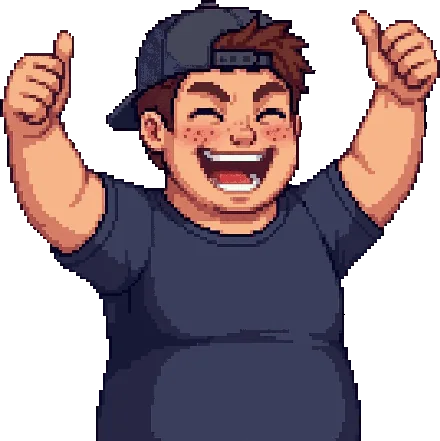
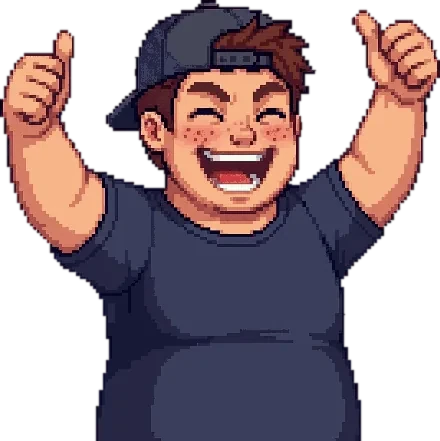
Terminale: le righe aggiunte non stanno piu' fuori dallo schermo del Mac
Regressione mia del commit precedente: aggiungendo store, reparto, iPhone e
ruolo, il terminale e' passato da 4 a 8 righe e le ultime finivano sotto
overflow:hidden. A schermo si vedeva "ANNI:" tagliato a meta' e nient'altro.

Tre cause, tutte misurate invece che indovinate:

  * padding in percentuale — le percentuali si calcolano sulla LARGHEZZA del
    contenitore (il prop intero, ~250px), non su questo schermetto alto 74px:
    erano 15px di margine verticale, un quinto dello spazio utile. Ora in em.
  * interlinea 1.75 + mezzo em di margine per riga = 2.25em a riga: con otto
    righe non c'era speranza. Ora 1.25 + 0.18em.
  * nessun adattamento: aggiungere una riga allo script faceva sparire le
    altre in silenzio, senza nessun errore da nessuna parte.

adattaTerminale() rimpicciolisce il testo finche' ci sta, come rete di
sicurezza per il futuro. Al primo tentativo scendeva sempre al minimo (3.2px,
illeggibile) e la causa non era il ciclo: misurava lo schermo PRIMA che
l'immagine del Mac fosse caricata, quando il riquadro e' alto quanto il suo
solo padding. Ora un ResizeObserver rimisura quando il riquadro diventa quello
vero — e la stessa cosa copre rotazione e ridimensionamento. Con i valori
sistemati il testo resta alla misura piena del CSS (5.86px) e tutte e otto le
righe entrano.

Contorno degli sprite: il Mac aveva l'alpha binaria, 0% di pixel
semitrasparenti. Ogni bordo diagonale (i fianchi della tastiera) diventava una
[…]

diff --git a/game/engine.js b/game/engine.js
@@ -772,6 +772,45 @@
     var c = global.document.createElement('span');
     c.className = 'cur'; c.id = 'tcur'; c.textContent = ' ';
     el.screen.appendChild(c);
+    osservaTerminale();
+    adattaTerminale();
+  }
+
+  // Lo schermo del Mac e' un ritaglio a misura fissa dentro l'immagine del prop:
+  // non puo' crescere. Aggiungendo campi al terminale il testo sfora e sparisce
+  // sotto overflow:hidden, in silenzio. Qui la scritta viene rimpicciolita finche'
+  // non ci sta: cosi' aggiungere una riga allo script non fa piu' sparire le altre.
+  // Sotto questa altezza il riquadro non e' ancora quello vero: #propwrap prende
+  // l'altezza dall'immagine del Mac, quindi finche' il PNG non e' caricato lo
+  // schermo e' alto quanto il suo solo padding. Misurare li' rimpicciolirebbe il
+  // testo al minimo per sempre.
+  var TERM_H_MIN = 24;
+  var TERM_FS_MIN = 3.2;
+  function adattaTerminale() {
+    var s = el && el.screen;
+    if (!s || s.clientHeight < TERM_H_MIN) return;
+    s.style.fontSize = '';                     // riparti dalla misura del CSS
+    var fs = parseFloat(global.getComputedStyle(s).fontSize) || 10;
+    // scrollHeight non scende mai sotto clientHeight: quando i due coincidono il
+    // testo ci sta, e il ciclo si ferma da solo
+    for (var i = 0; i < 12 && s.scrollHeight > s.clientHeight && fs > TERM_FS_MIN; i++) {
+      fs = Math.max(TERM_FS_MIN, fs * 0.94);
+      s.style.fontSize = fs.toFixed(2) + 'px';
+    }
+  }
+
+  // Rimisura quando il riquadro cambia davvero: immagine del Mac caricata,
+  // rotazione, ridimensionamento della finestra.
+  var termOsservatore = null;
+  function osservaTerminale() {
+    if (termOsservatore || !el || !el.screen) return;
+    if (typeof global.ResizeObserver === 'function') {
+      termOsservatore = new global.ResizeObserver(function () { adattaTerminale(); });
+      termOsservatore.observe(el.screen);
+    } else {
+      global.addEventListener('resize', adattaTerminale);   // ripiego
+      termOsservatore = true;
+    }
   }
 
   function termSet(varName) {

diff --git a/game/engine.css b/game/engine.css
@@ -120,8 +120,15 @@ html,body{height:100%;background:#0a0a0f;overflow:hidden;overscroll-behavior:non
 #propwrap.out{opacity:0;transform:translate(-50%,-40px) scale(.8)}
 #prop{width:100%;display:block;image-rendering:pixelated;filter:drop-shadow(0 16px 30px rgba(0,0,0,.65))}
 #screen{position:absolute;left:28.6%;top:12.6%;width:43%;height:27%;
- padding:3% 4%;color:#0f3b34;font-size:clamp(6px,1.7vw,12px);line-height:1.75;overflow:hidden}
-.frow{margin-bottom:.5em;white-space:nowrap;overflow:hidden}
+ padding:.35em .7em;color:#0f3b34;font-size:clamp(6px,1.7vw,12px);line-height:1.25;overflow:hidden}
+/* padding in em, non in %: le percentuali si calcolano sulla LARGHEZZA del
+   contenitore (il prop intero, ~250px), non su questo schermetto alto 74px —
+   erano 15px di margine verticale, un quinto dello spazio utile. */
+/* Interlinea stretta: lo schermo del Mac e' piccolo e le righe del terminale sono
+   otto (i sei campi del form, il ruolo e la riga di stato). Con l'interlinea
+   larga di prima ce ne stavano cinque e le altre sparivano sotto overflow:hidden.
+   Se un domani se ne aggiungono altre, adattaTerminale() in engine.js rimpicciolisce. */
+.frow{margin-bottom:.18em;white-space:nowrap;overflow:hidden}
 .fk{opacity:.75}
 .fv{font-weight:bold}
 .cur{display:inline-block;width:.55em;background:#0f3b34;animation:bl .6s steps(1) infinite}

diff --git a/index.html b/index.html
@@ -14,7 +14,7 @@
 <link href="https://fonts.googleapis.com/css2?family=Press+Start+2P&display=swap" rel="stylesheet"
       media="print" onload="this.media='all'">
 <noscript><link href="https://fonts.googleapis.com/css2?family=Press+Start+2P&display=swap" rel="stylesheet"></noscript>
-<link rel="stylesheet" href="./game/engine.css?v=19">
+<link rel="stylesheet" href="./game/engine.css?v=20">
 </head>
 <body>
 <div id="stage">
@@ -72,7 +72,7 @@
   </div>
 </div>
 
-<script src="./game/engine.js?v=19"></script>
+<script src="./game/engine.js?v=20"></script>
 <script>
 (function () {
   var params = new URLSearchParams(location.search);
@@ -133,7 +133,7 @@
   // in quel caso non serve nessuna richiesta HTTP e il gioco gira anche da file://
   if (window.STORY_INLINE) return start(window.STORY_INLINE);
 
-  fetch('./game/story.json?v=19', { cache: 'no-cache' })
+  fetch('./game/story.json?v=20', { cache: 'no-cache' })
     .then(function (r) { if (!r.ok) throw new Error(r.status); return r.json(); })
     .then(start)
     .catch(function (e) {

diff --git a/tools/ammorbidisci_bordi.py b/tools/ammorbidisci_bordi.py
@@ -1,0 +1,140 @@
+#!/usr/bin/env python3
+"""Ammorbidisce il contorno degli sprite con l'alpha "dura" (senza sfumature).
+
+    python3 tools/ammorbidisci_bordi.py assets/props/prop_mac_terminale.webp
+    python3 tools/ammorbidisci_bordi.py --controlla          # elenca chi ne ha bisogno
+    python3 tools/ammorbidisci_bordi.py assets/chars/*.webp --prova
+
+Il problema: alcuni sprite hanno l'alpha a due soli valori, 0 o 255. Ogni bordo
+diagonale o curvo diventa una scaletta netta, e siccome il gioco mostra le
+immagini rimpicciolite (il Mac e' 938px e si vede a ~750px) la scaletta diventa
+irregolare e si legge come "ritagliato male".
+
+Cosa fa, in due passaggi che vanno insieme:
+
+  1. **sbava il colore verso l'esterno** — sotto i pixel trasparenti resta il
+     colore del vecchio sfondo (nel Mac era bianco 252,252,252). Sfumando
+     l'alpha senza questo passaggio, quel bianco riaffiora e si vede come un
+     alone chiaro attorno alla sagoma.
+  2. **sfuma solo l'alpha** di --raggio pixel. L'interno del disegno non viene
+     toccato: resta pixel art nitida, si ammorbidisce solo il contorno.
+
+Non ha effetto sugli sprite che hanno gia' l'alpha morbida: quelli vengono
+saltati, cosi' si puo' lanciare su una cartella intera senza pensarci.
+
+Richiede: pillow numpy scipy
+"""
+import argparse
+import glob
+import os
+import sys
+
+try:
+    import numpy as np
+    from PIL import Image, ImageFilter
+    from scipy.ndimage import distance_transform_edt
+except ImportError:
+    sys.exit("Servono pillow, numpy e scipy:  pip install pillow numpy scipy")
+
+# sotto questa percentuale di pixel semitrasparenti il contorno e' "duro"
+SOGLIA_DURA = 0.3
+
+
+def percentuale_sfumata(alpha):
+    return float(((alpha > 0) & (alpha < 255)).mean() * 100)
+
+
+def ammorbidisci(percorso, raggio, prova):
+    im = Image.open(percorso).convert("RGBA")
+    a = np.array(im).astype(np.float32)
+    rgb, alpha = a[..., :3], a[..., 3]
+
+    prima = percentuale_sfumata(alpha)
+    if prima >= SOGLIA_DURA:
+        print("  = %-46s gia' morbido (%.1f%%), saltato"
+              % (os.path.basename(percorso), prima))
+        return False
+    if not (alpha == 0).any():
+        print("  = %-46s nessuna trasparenza, saltato" % os.path.basename(percorso))
+        return False
+
+    # 1. il colore dei pixel opachi piu' vicini riempie la zona trasparente,
+    #    cosi' la sfumatura successiva non tira dentro il vecchio sfondo
+    opaco = alpha > 0
+    vicino = distance_transform_edt(~opaco, return_distances=False, return_indices=True)
+    rgb = rgb[vicino[0], vicino[1]]
+
+    # 2. sfuma solo l'alpha: il disegno resta identico, cambia solo il bordo
+    alpha = np.array(
+        Image.fromarray(alpha.astype(np.uint8)).filter(ImageFilter.GaussianBlur(raggio))
+    ).astype(np.float32)
+
+    dopo = percentuale_sfumata(alpha)
+    peso_prima = os.path.getsize(percorso)
+
+    if not prova:
+        fuori = np.dstack([rgb, alpha]).clip(0, 255).astype(np.uint8)
+        salva = {"WEBP": dict(quality=90, method=6)}.get(
+            Image.open(percorso).format, dict(optimize=True))
+        Image.fromarray(fuori, "RGBA").save(percorso, **salva)
+        peso_dopo = os.path.getsize(percorso)
+    else:
+        peso_dopo = peso_prima
+
+    print("  ~ %-46s contorno %.1f%% -> %.1f%%   %d KB -> %d KB%s"
+          % (os.path.basename(percorso), prima, dopo,
+             peso_prima / 1024, peso_dopo / 1024,
+             "   [prova: non scritto]" if prova else ""))
+    return True
+
+
+def controlla():
+    trovati = []
+    for p in sorted(glob.glob("assets/**/*.webp", recursive=True)
+                    + glob.glob("assets/**/*.png", recursive=True)):
+        if os.sep + "bg" + os.sep in p:
+            continue                       # i fondali non hanno contorno
+        alpha = np.array(Image.open(p).convert("RGBA"))[..., 3]
+        if (alpha == 255).all():
+            continue
+        pct = percentuale_sfumata(alpha)
+        if pct < SOGLIA_DURA:
+            trovati.append((p, pct))
+    if not trovati:
+        print("Nessuno sprite con contorno duro. Tutto a posto.")
+        return
+    print("Sprite con contorno duro (alpha senza sfumature):\n")
+    for p, pct in trovati:
+        print("  %-52s %.2f%%" % (p, pct))
+    print("\nPer sistemarli:\n  python3 tools/ammorbidisci_bordi.py %s"
+          % " ".join(p for p, _ in trovati))
+
+
+def main():
+    ap = argparse.ArgumentParser(
+        description="Ammorbidisce il contorno degli sprite con alpha binaria.")
+    ap.add_argument("sorgenti", nargs="*", help="gli sprite da correggere (modificati sul posto)")
+    ap.add_argument("--controlla", action="store_true",
+                    help="elenca gli sprite che ne avrebbero bisogno, senza toccare nulla")
+    ap.add_argument("--raggio", type=float, default=0.8,
+                    help="quanto sfumare il bordo, in pixel (default 0.8: "
+                         "abbastanza da togliere la scaletta, non tanto da sbiadire)")
+    ap.add_argument("--prova", action="store_true", help="mostra il risultato senza scrivere")
+    args = ap.parse_args()
+
+    if args.controlla:
+        return controlla()
+    if not args.sorgenti:
+        ap.error("passa uno o piu' file, oppure --controlla")
+
+    fatti = 0
+    for s in args.sorgenti:
+        if not os.path.isfile(s):
+            print("  ! non trovato: %s" % s)
+            continue
+        fatti += ammorbidisci(s, args.raggio, args.prova)
+    print("\n%d sprite %s." % (fatti, "da correggere" if args.prova else "corretti"))
+
+
+if __name__ == "__main__":
+    main()

diff --git a/README.md b/README.md
@@ -246,6 +246,20 @@ carica mai. Tienili dove preferisci (Drive, iCloud, Scrivania) oppure, se e' com
 averli a portata di mano, in una cartella `_sorgenti/` dentro il repo: e' nel
 `.gitignore`, quindi Git la ignora e non rischi di caricare 200 MB di PNG per sbaglio.
 
+Se uno sprite ha il **contorno a scaletta** ("ritagliato male"), la causa e' quasi
+sempre l'alpha binaria: solo 0 o 255, nessuna sfumatura, quindi ogni bordo curvo o
+diagonale diventa un gradino netto — e si nota ancora di piu' perche' il gioco
+mostra le immagini rimpicciolite.
+
+```bash
+python3 tools/ammorbidisci_bordi.py --controlla     # chi ne ha bisogno
+python3 tools/ammorbidisci_bordi.py assets/props/prop_mac_terminale.webp
+```
+
+Sbava il colore dei bordi verso l'esterno (senza, riaffiora il bianco del vecchio
+sfondo come un alone) e poi sfuma solo l'alpha: l'interno resta pixel art nitida.
+Salta da solo gli sprite gia' a posto, quindi si puo' lanciare su una cartella intera.
+
 **`optimize_assets.py` e' un'altra cosa**: ricomprime *sul posto* file gia' dentro
 `assets/` (resize + quantizzazione a 64 colori con alpha preservato), utile per
 alleggerire la build single-file. Salta le cartelle `_originali/` proprio perche'
